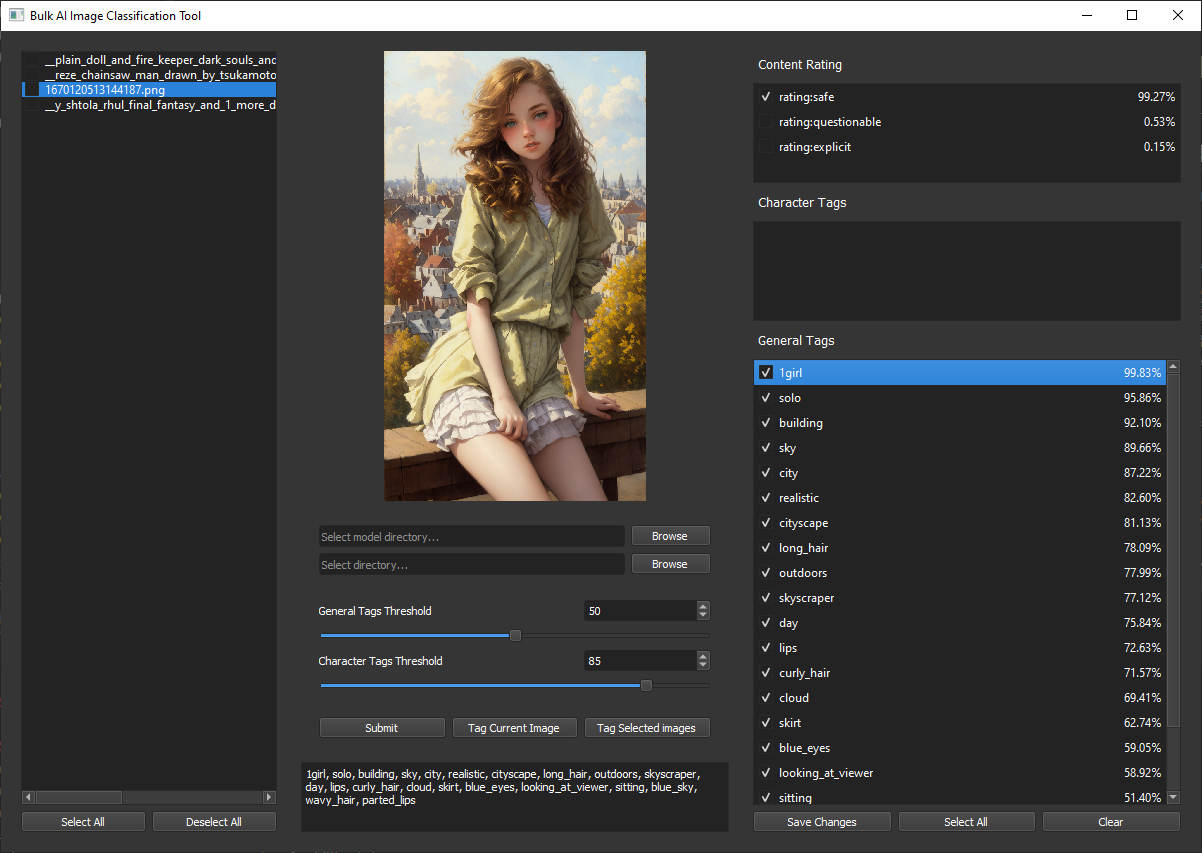
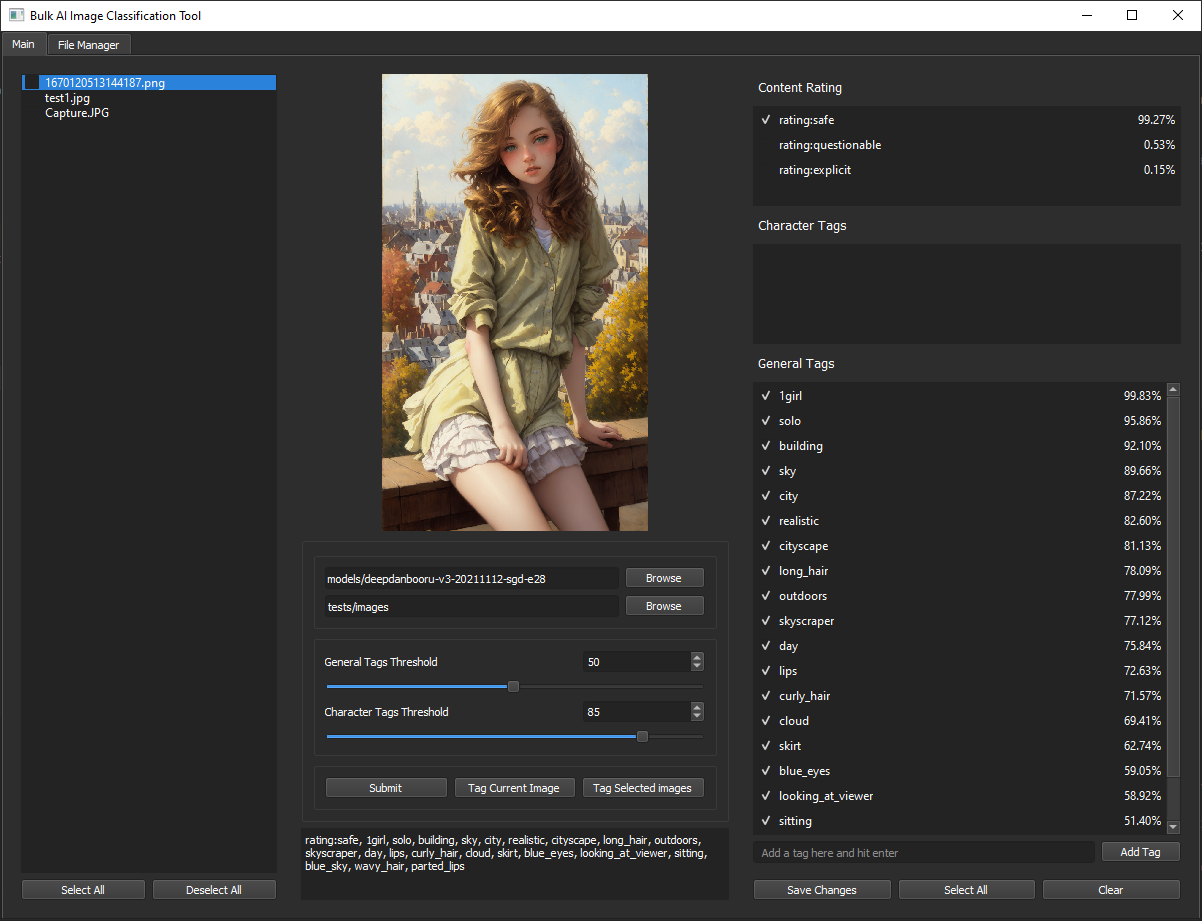
readme

diff --git a/README.md b/README.md
@@ -10,7 +10,7 @@ An image tagger based on deepdanbooru AI
 + Windows 10/11
 + 3GB+ of RAM
 ### Installation on Windows 10/11 using release package
-https://github.com/Vaedrenn/Bulk-AI-Image-Classification-Tool/releases/tag/0.1.0
+https://github.com/Vaedrenn/Bulk-AI-Image-Classification-Tool/releases
 
 ### Building from source
 Assuming you've already set up the virtual environment
@@ -32,7 +32,7 @@ Download: https://github.com/KichangKim/DeepDanbooru/releases
 ### Custom Models
 For the time being models should be in the following format:
 ```
-/dd-image-tagger/
+/Bulk-AI-Image-Classification-Tool/
 └── /models/
     └── /model_name/
         ├── model-resnet_custom_v3.h5 (required)
@@ -40,3 +40,16 @@ For the time being models should be in the following format:
         └── tags-character.txt (optional)
 ```
 - Models and tags are loaded via action_box's load_model and load_tags function, which look for the above files respectively
+## Usage
+### Generating Tags
+1. Load model using the browse button located at next to the input that says model.
+2. Specify folder path, does not tag subdirectories.
+3. Specify threshold limits. Tags are based on probability of correctness, if probability is greater than threshold then that tag is added to results. This is based on the model provided.
+4. Click Submit to generate tags for all images.
+
+### Editing Tags
+#### Adding tags
+- Don't see a tag in results? Type it in the add tag box and hit enter.
+#### Removing Tags
+- Uncheck the tag you don't want and then click 'Save Changes'
+
